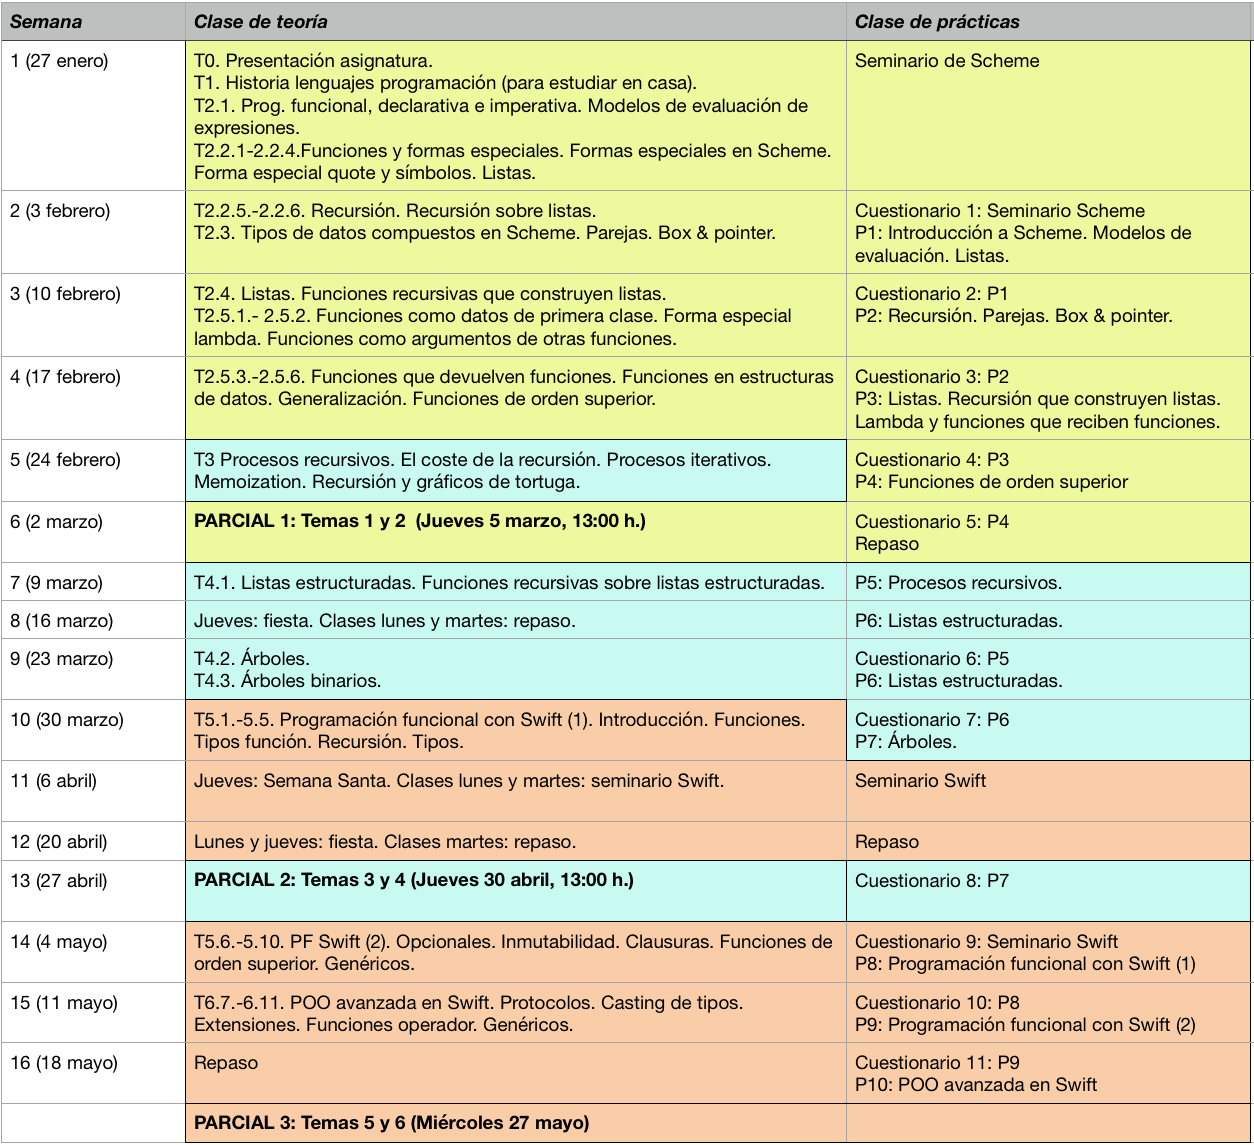
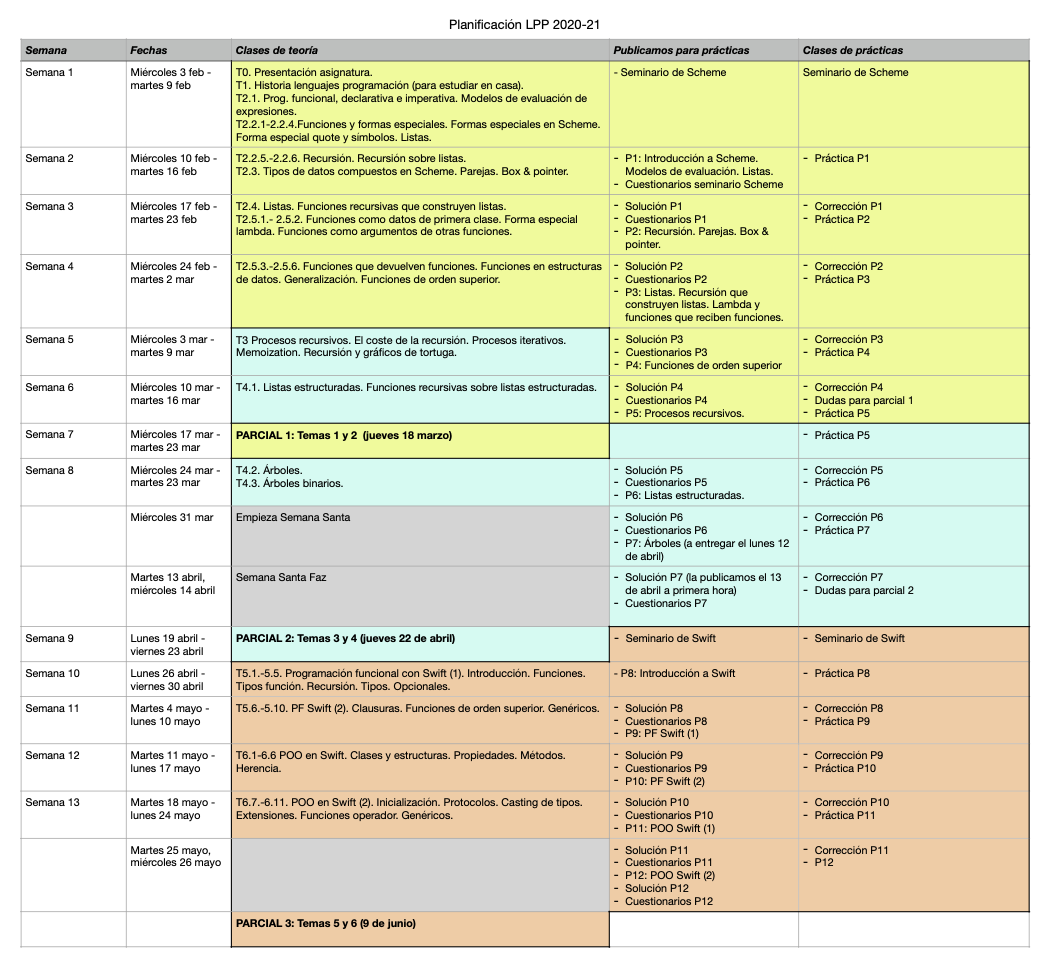
Actualizado al curso 2020-21

diff --git a/docs/teoria/tema00-descripcion-asignatura/tema00-descripcion-asignatura.md b/docs/teoria/tema00-descripcion-asignatura/tema00-descripcion-asignatura.md
@@ -9,10 +9,10 @@ prácticas de 2 h. a la semana
 **Profesores**:  
 
 * Antonio Botía ([e-mail](mailto:abotia@dccia.ua.es)): Grupos de
-  prácticas: 2, 9 y 401
+  prácticas: 2, 9 y 402
 * Domingo Gallardo ([e-mail](mailto:domingo.gallardo@ua.es)): Profesor
   coordinador de la asignatura. Grupos de teoría: 3, 4 y 40. Grupos de
-  prácticas: 402
+  prácticas: 401
 * Francisco Martínez ([e-mail](mailto:fmartine@ua.es)): Grupos de
   prácticas: 4, 5, 6 y 8
 * Cristina Pomares ([e-mail](mailto:cpomares@ua.es)): Grupos de
@@ -20,12 +20,12 @@ prácticas de 2 h. a la semana
 
 ## Recursos de la asignatura
 
-* [Ficha de la asignatura](https://cvnet.cpd.ua.es/Guia-Docente/GuiaDocente/Index?wCodEst=C203&wcodasi=34017&wlengua=es&scaca=2019-20)
+* [Ficha de la asignatura](https://cvnet.cpd.ua.es/Guia-Docente/GuiaDocente/Index?wCodEst=C203&wcodasi=34017&wlengua=es&scaca=2020-21)
 * [Apuntes de la asignatura (teoría, seminarios y prácticas)](https://domingogallardo.github.io/apuntes-lpp/)
-* [Sitio Moodle](https://moodle2019-20.ua.es/moodle/course/view.php?id=4822)
+* [Sitio Moodle](https://moodle2020-21.ua.es/moodle/course/view.php?id=8242)
   abierto y accesible a toda la comunidad educativa, contiene los
   apuntes, transparencias, prácticas y otros materiales docentes
-* [Foro de consultas y anuncios](https://moodle2019-20.ua.es/moodle/mod/forum/view.php?id=42798)
+* [Foro de consultas y anuncios](https://moodle2020-21.ua.es/moodle/mod/forum/view.php?id=80350)
   en el sitio Moodle (sólo accesible a estudiantes)
 
 ## Objetivos y competencias
@@ -62,11 +62,15 @@ dominios concretos.
   procedimientos y estructuras de datos (listas y árboles).
 * Ser capaz de diseñar, implementar y corregir programas funcionales,
   en concreto utilizando el lenguaje de programación Scheme.
-* Ser capaz de implementar programas sencillos en Swift, en los que se
-  utilicen las características multi-paradigma del lenguaje.
-* Comparar el paradigma orientado a objetos con el paradigma
-  procedural clásico, reconociendo las ventajas que aporta en cuanto a
-  abstracción, reutilización y modificación de código.
+* Ser capaz de diseñar, implementar y corregir programas funcionales,
+  en concreto utilizando el lenguaje de programación Swift.
+* Conocer las características de programación orientada a
+  objetos y de comprobación estática de tipos del lenguaje de
+  programación Swift. Conocer el uso de genéricos y protocolos que
+  proporciona el lenguaje.
+* Ser capaz de implementar programas en Swift en los que se
+  utilicen sus características de programación orientada a objetos,
+  genéricos y protocolos.
 
 ## Temario
 
@@ -122,7 +126,7 @@ impartidos en las clases de prácticas.
   historia del paradigma de Programación Orientada a
   Objetos. Estructuras y clases en Swift. Herencia. Conceptos
   avanzados de POO en Swift: Extensiones, Protocolos y
-  Genéricos. Gestión de errores.
+  Genéricos.
 
 El calendario de temas, prácticas y exámenes se puede ver en la
 siguiente figura.
@@ -149,94 +153,25 @@ Cada práctica consistirá en la resolución de una **hoja de ejercicios**
 con 5 o 6 pequeños problemas de programación relacionados con la
 teoría vista durante la semana.
 
-Se realizarán 11 sesiones de ejercicios de prácticas de una semana de
+Se realizarán 12 sesiones de ejercicios de prácticas de una semana de
 duración y 2 seminarios sobre los anteriores lenguajes de programación.
 
-La hoja de ejercicios estará disponible el viernes y se dispondrá de
-toda la semana siguiente para su realización y su entrega en
-Moodle. La entrega se cerrará el viernes por la noche.
+La hoja de ejercicios estará disponible al comienzo de la semana y se
+dispondrá de toda la semana siguiente para su realización y su entrega
+en Moodle. La entrega se cerrará el último día de la semana. Al día
+siguiente se publicará la solución.
 
-En la clase de prácticas se trabajará en esa hoja de
-ejercicios. Durante la sesión de prácticas el profesor estará
+En la clase de prácticas resolverán dudas sobre la solución de
+la práctica anterior y se trabajará en la hoja de ejercicios publicada
+esa semana. Durante la sesión de prácticas el profesor estará
 disponible para resolver dudas y dar pistas sobre cómo atacar los
-problemas. También durante la semana se podrán consultar las dudas que
+problemas. 
+
+También durante la semana se podrán consultar las dudas que
 puedan surgir en el foro de la asignatura (en Moodle) y con tutorías a
 los profesores. Es preferible el foro, porque de esta forma las
 contestaciones y aclaraciones serán compartidas con el resto de
 compañeros.
-
-Al final de la semana de realización de la hoja de ejercicios se
-publicará su solución.
-
-### Cuestionarios ###
-
-Al comienzo de cada sesión de prácticas se realizará un **cuestionario
-sobre la hoja de ejercicios de la semana anterior**. La superación de
-los cuestionarios de cada bloque sumará 0,5 puntos a la nota del
-parcial de ese bloque (ver el apartado de evaluación).
-
-Los cuestionarios constarán de 3 preguntas cortas **sobre la práctica
-y sobre los conceptos de teoría asociados**. Dentro de cada bloque
-temático deberás haber **aprobado los cuestionarios previos para poder
-realizar el cuestionario actual**. Se permitirá recuperar los
-cuestionarios previos suspendidos, **una vez por sesión** y siempre
-**dentro del tiempo** destinado a la realización de los mismos. Sólo
-se podrán recuperar cuestionarios del bloque temático actual.
-
-El cuestionario se realizará en Moodle y se evaluará con una
-calificación de 0 a 10 (aprobando con una nota >= 5). Constará de 3
-preguntas de igual puntuación (3,333 puntos). En cada pregunta se
-permitirán 3 intentos y cada intento fallado descontará 1/3 de la
-puntuación de la pregunta (1,111 puntos). De esta forma, para aprobar
-un cuestionario se podrán fallar como máximo 4 intentos.
-
-Tendrás que tener cuidado al escribir las respuestas de los
-cuestionarios. Deberás escribirlas de forma totalmente correcta,
-**incluyendo los espacios en blanco**. Deberás fijarte en los ejemplos
-que proporcionamos en teoría y en los resultados de la ejecución de
-expresiones en el intérprete del lenguaje.
-
-A continuación puedes ver ejemplos incorrectos y correctos de
-contestación de un cuestionario.
-
-<img src="imagenes/respuestas-cuestionario.png" width="500px"/>
-
-
-### Normas para realización de los cuestionarios ###
-
-- Cada cuestionario tendrá una duración máxima de 10 minutos.
-- La realización de cuestionarios comenzará puntualmente a los 5
-  minutos de empezar la clase de prácticas y durará 20 minutos, para
-  permitir recuperar algún cuestionario anterior suspendido.
-- Deberás realizar los cuestionarios en el grupo de prácticas en el
-  que está matriculado y en el aula en la que se imparte ese grupo
-  de prácticas.
-- Se deberán realizar en los ordenadores del aula. De forma
-  excepcional, si no hay ordenadores libres, podrás utilizar tu
-  portátil, pero sentado cerca de la mesa del profesor y con la
-  pantalla en su dirección.
-- Durante la realización del cuestionario únicamente deberás tener
-  abierta la ventana del navegador en la que estás realizándolo. Está
-  prohibido abrir cualquier otra ventana o aplicación.
-- Durante la realización del cuestionario no deberás tener acceso
-  al móvil.
-- Una vez realizado un cuestionario, quedará bloqueado y no se podrá
-  repetir hasta que haya pasado exactamente una semana. Por ello es
-  muy importante que todas las semanas asistas al mismo grupo de
-  prácticas. Una vez comenzados los cuestionarios no será posible
-  realizar cambios de grupo en las prácticas.
-
-### Comportamiento indebido en la realización de cuestionarios
-
-Cualquiera de las siguientes acciones se consideran un comportamiento
-indebido, y se penalizarán con la anulación de todos los cuestionarios
-del bloque temático:
-
-- Realizar un cuestionario fuera de tu grupo de prácticas.
-- Tener abiertas otras aplicaciones mientras se está realizando el
-  cuestionario.
-- Realizar fotografías o capturas de pantallas de las preguntas del
-  cuestionario. 
 
 ### Uso del software iTALC ###
 
@@ -244,44 +179,62 @@ Durante el desarrollo de las sesiones prácticas es obligatorio usar el
 ordenador del aula y no el portátil personal. El profesor de prácticas
 abrirá el programa iTALC, con el que podrá comprobar cómo estáis
 desarrollando los ejercicios y podrá haceros recomendaciones cuando lo
-considere oportuno. Además se utilizará iTALC para vigilar la
-contestación de los cuestionarios.
-
+considere oportuno. 
 
 ## Horarios
 
-La distribución de grupos del curso 2019-20 es la siguiente:
+La distribución de grupos del curso 2020-21 es la siguiente:
 
 <img src="imagenes/horario.png" width="800px"/>
 
+En los turnos de teoría es posible, de forma excepcional, asistir a un
+grupo distinto del asignado.
+
+Las aulas online en las que se impartirán las clases son las
+siguientes:
+
+- Grupo 1 (jueves de 9:00 a 11:00 h.): aula online
+- Grupo 2 (lunes de 9:00 a 11:00 h.): aula online
+- Grupo 3 (lunes de 15:00 a 17:00 h.): [aula online](https://big9.cpd.ua.es/html5client/join?sessionToken=7zbgqjpzohyrelgs)
+- Grupo 4 (jueves de 17:00 a 19:00 h.): [aula online](https://big26.cpd.ua.es/html5client/join?sessionToken=jrmsacwwwzyebkxq)
+- Grupo I2ADE (lunes de 13:00 a 15:00 h.): [aula online](https://big22.cpd.ua.es/html5client/join?sessionToken=gt5kumg2lyo8yjyd)
+
+En los turnos de prácticas se debe asistir al grupo al que se ha
+asignado. El cambio de turno deberá solicitarse en la Secretaría de la EPS.
+
 ## Evaluación
 
-### Convocatoria normal C3 (evaluación continua)
+### Convocatoria ordinaria C3 (evaluación continua)
 
-Para cada bloque temático se realizará un examen parcial. En cada
-bloque temático se pueden obtener 0,5 puntos adicionales que se suman
-a la nota del parcial. Los puntos adicionales se obtienen si se
-aprueban n-1 cuestionarios del bloque. 
+La asignatura se divide en 3 bloques temáticos, todos ellos de igual
+duración, en los que se utilizará el lenguaje de programación que
+aparece entre paréntesis: 
 
-Cada bloque pondera 1/3 en la nota final. No hay nota mínima en
-ningún bloque.
+Programación funcional (temas 1 y 2, Scheme)
+Recursión y estructuras de datos recursivas (temas 3 y 4, Scheme)
+Programación funcional en Swift y programación orientada a objetos (temas 5 y 6, Swift)
 
-La siguiente figura resume la evaluación:
+Se realizarán tres exámenes parciales escritos sobre los conceptos de
+cada uno de los bloques temáticos (teoría y práctica). Los parciales
+tendrán la siguiente ponderación en la nota final: 
 
-<img src="imagenes/evaluacion.png" width="800px"/>
+- Parcial 1: 35%
+- Parcial 2: 30%
+- Parcial 3: 35%
 
+No se exige nota mínima en ninguno de los parciales. Los parciales 1 y
+2 se realizarán durante el curso. El parcial 3 se realizará en la
+fecha del examen oficial de la convocatoria ordinaria de la
+asignatura. 
     
 !!! Danger "Sobre los dispositivos móviles"
-    - Como norma básica de todas las pruebas de evaluación de esta
-    asignatura (cuestionarios y exámenes escritos), durante la
-    realización de los mismos no está permitido que llevéis encima
-    ningún dispositivo con conexión a internet (smart phones, smart
+    - Durante la realización de los exámenes no está permitido que llevéis encima
+    ningún dispositivo con conexión a internet (smartphones, smart
     watches, tablets, etc). Antes de empezar la prueba, se deberán
     dejar dentro de las mochilas, y éstas en el suelo. En caso de no
     cumplir alguna esta norma, la prueba queda invalidada con
     calificación de 0. 
     
-
 ### Convocatoria extraordinaria C4
 
 En la convocatoria extraordinaria se realizará un examen final sobre
@@ -374,22 +327,18 @@ En Moodle se publican los apuntes de la asignatura, con ejercicios,
 explicaciones y ejemplos de todos los conceptos estudiados, tanto en
 teoría como en práctica.
 
-Para ampliar algunos conceptos se recomiendan los dos siguientes manuales:
+Para ampliar algunos conceptos se recomiendan las siguientes referencias:
 
-<img src="imagenes/sicp-cover.jpg" width="170px"/>
 
-* Harold Abelson y Gerald Jay Sussman, *Structure and Interpretation
-  of Computer Programs*, MIT Press, 1996
-* [Enlace a la edición on-line](http://mitpress.mit.edu/sites/default/files/sicp/full-text/book/book.html)
-* Signatura en la Biblioteca Politécnica: I.06/ABE/STR
+- Harold Abelson y Gerald Jay Sussman, *Structure and Interpretation of Computer Programs*, MIT Press, 1996
+    - [Enlace a la edición on-line](http://mitpress.mit.edu/sites/default/files/sicp/full-text/book/book.html)
+    - Signatura en la Biblioteca Politécnica: I.06/ABE/STR
+- Apple, [_The Swift Programming Language_](https://developer.apple.com/library/ios/documentation/Swift/Conceptual/Swift_Programming_Language/)
+- [_The Racket Guide_](https://docs.racket-lang.org/guide/index.html)
 
-<img src="imagenes/swift-cover.png" width="170px"/>
-
-* Apple, *The Swift Programming Language (Swift 4.2)*, 2019
-* [Web](https://developer.apple.com/library/ios/documentation/Swift/Conceptual/Swift_Programming_Language/)
 
 ----
 
-Lenguajes y Paradigmas de Programación, curso 2019-20  
+Lenguajes y Paradigmas de Programación, curso 2020-21  
 © Departamento Ciencia de la Computación e Inteligencia Artificial, Universidad de Alicante  
 Domingo Gallardo, Cristina Pomares, Antonio Botía, Francisco Martínez
